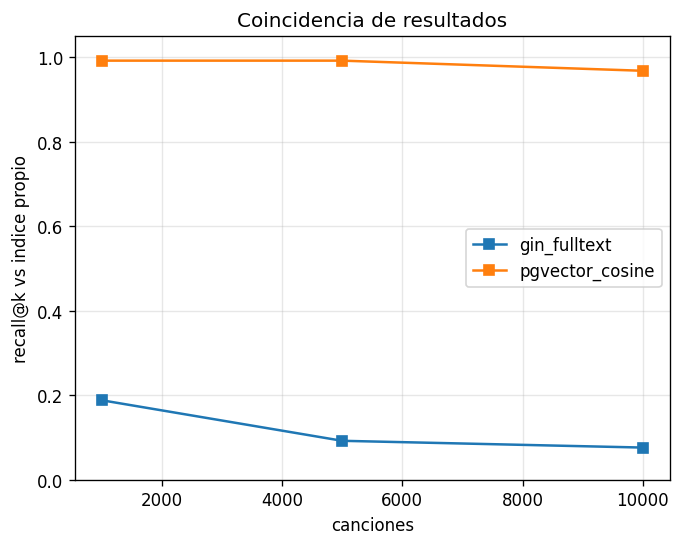
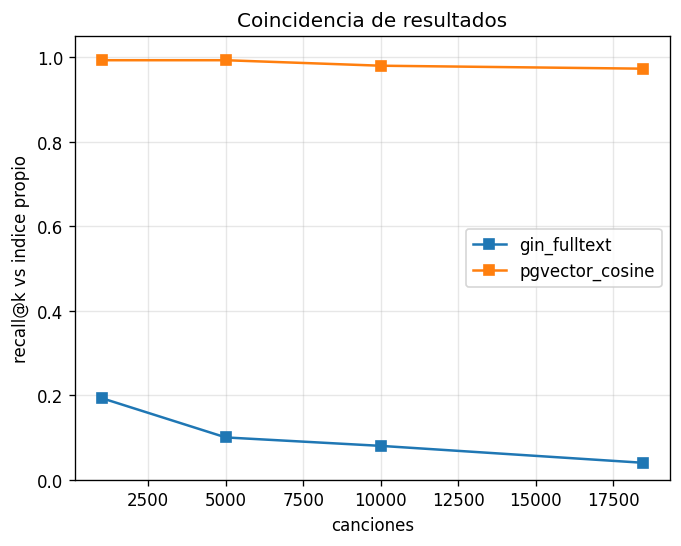
benchmark de la fase 4 con sus 4 graficas (latencia, throughput, recall, memoria) y csv

diff --git a/backend/experiments/benchmark.py b/backend/experiments/benchmark.py
@@ -165,6 +165,25 @@ def plot(rows: list[dict], out_dir: Path) -> None:
     plt.xlabel("canciones"); plt.ylabel("recall@k vs indice propio")
     plt.title("Coincidencia de resultados"); plt.ylim(0, 1.05); plt.legend(); plt.grid(True, alpha=0.3)
     plt.savefig(out_dir / "recall_vs_size.png", dpi=120, bbox_inches="tight")
+
+    # throughput (consultas por segundo): mas alto = mejor
+    plt.figure()
+    for m in methods:
+        ys = [next(r["qps"] for r in rows if r["method"] == m and r["corpus_size"] == n) for n in sizes]
+        plt.plot(sizes, ys, marker="o", label=m)
+    plt.xlabel("canciones"); plt.ylabel("throughput (consultas/seg)")
+    plt.title("Throughput vs tamano de corpus"); plt.legend(); plt.grid(True, alpha=0.3)
+    plt.savefig(out_dir / "throughput_vs_size.png", dpi=120, bbox_inches="tight")
+
+    # memoria en disco de los indices nativos (el propio se mide en postings, aparte)
+    plt.figure()
+    for m in [x for x in methods if x != "inverted_index"]:
+        ys = [next(r["native_index_bytes"] for r in rows if r["method"] == m and r["corpus_size"] == n) / 1e6
+              for n in sizes]
+        plt.plot(sizes, ys, marker="^", label=m)
+    plt.xlabel("canciones"); plt.ylabel("tamano del indice (MB)")
+    plt.title("Memoria de los indices nativos"); plt.legend(); plt.grid(True, alpha=0.3)
+    plt.savefig(out_dir / "memory_vs_size.png", dpi=120, bbox_inches="tight")
     print(f"[bench] graficos -> {out_dir}")
 
 